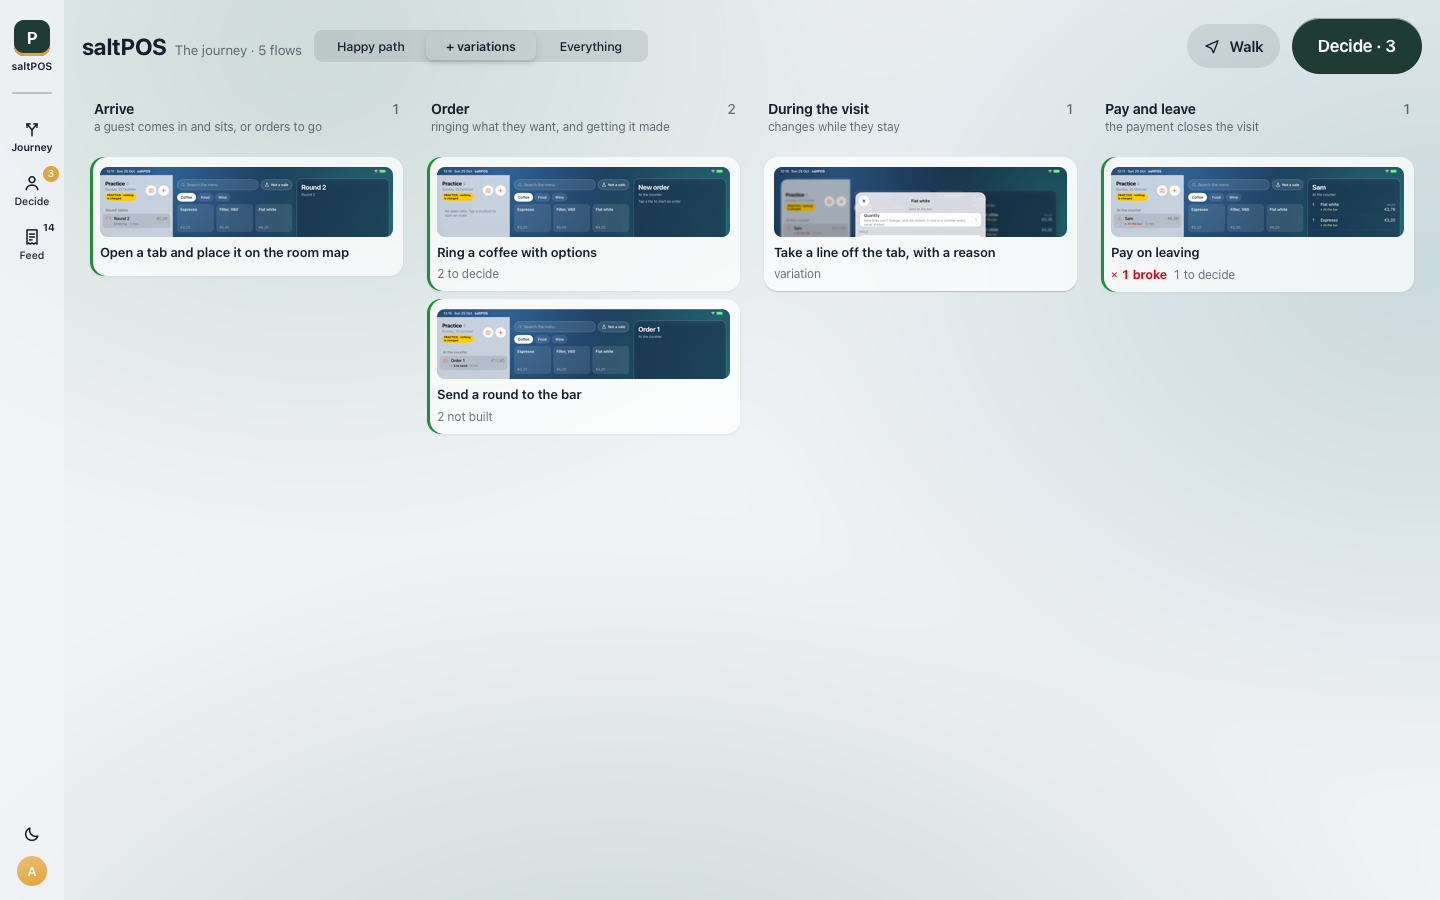
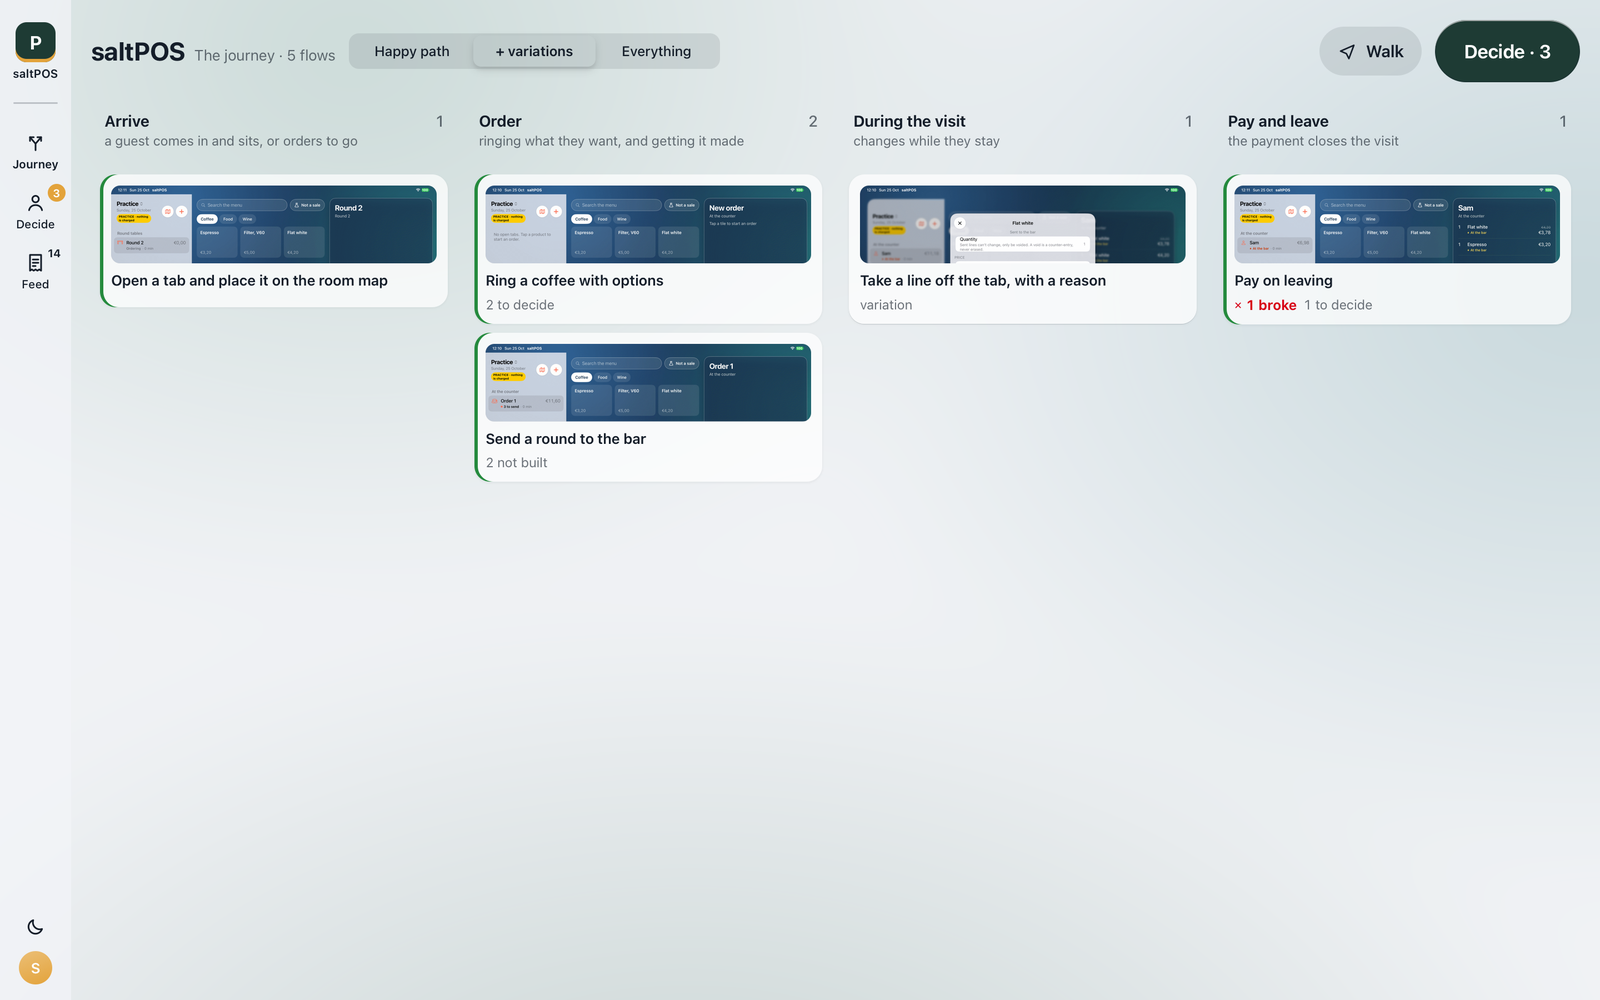
saltFlow 0.2.2

diff --git a/src/saltflow/page.html b/src/saltflow/page.html
@@ -240,6 +240,10 @@ html, body { height: 100%; margin: 0; background: #000; }
 .tc-details[open] summary::before { transform: rotate(90deg); }
 .tc-details .tc-meta { padding: 4px 0 6px; }
 .crop { position: relative; }
+.crop-clients { position: absolute; right: 10px; top: 10px; z-index: 3; pointer-events: auto; display: flex; padding: 2px; gap: 2px; border-radius: 999px; background: color-mix(in srgb, var(--gl-ground) 82%, transparent); }
+.crop-clients button { all: unset; pointer-events: auto; cursor: pointer; font: 600 11.5px var(--font); padding: 3px 10px; border-radius: 999px; color: var(--dim); }
+.crop-clients button.on { background: var(--gl-open-fill, rgba(127,127,127,.18)); color: var(--ink); }
+.crop-clients button:focus-visible { outline: 2px solid var(--accent); outline-offset: 1px; }
 .crop-chip { position: absolute; left: 10px; bottom: 10px; font: 600 11.5px var(--font); padding: 4px 9px; border-radius: 999px; background: color-mix(in srgb, var(--gl-ground) 82%, transparent); color: var(--dim); }
 /* board: content on the tint, not cards in panes */
 .bd-col { background: transparent !important; }
@@ -1004,6 +1008,9 @@ function xrayFor(surface) {
   c.classList.add('xr')
   return c
 }
+// a step captured by both builds shows the one picked last (web or native), remembered on this device
+let capClient = (() => { try { return localStorage.getItem('saltflow.client') } catch (_) { return null } })()
+const clientName = c => c.client === 'native' ? (/ipad/i.test(c.device || '') ? 'iPad' : /iphone/i.test(c.device || '') ? 'iPhone' : 'Native') : 'Web'
 // ── the card: the step ──
 function cropFor(id, s, surf) {
   const box = h('div', { 'data-move': 'open-live', 'data-words': 'the pane on the card', class: `crop ${s.made ? '' : 'unbuilt'} ${INLINE ? '' : 'live'}`, role: INLINE ? null : 'button', tabindex: INLINE ? null : 0, title: INLINE ? null : 'Open this step live', onclick: INLINE ? null : () => openLive(id), onkeydown: e => { if (!INLINE && e.key === 'Enter') openLive(id) } })
@@ -1017,12 +1024,15 @@ function cropFor(id, s, surf) {
     api('/api/terminal?cmd=' + encodeURIComponent(surf.command)).then(r => { pre.textContent = `$ ${r.command}\n${r.output}` }, e => { pre.textContent = e.message })
     return box
   }
-  const cap = (bundle.captures || {})[id]
+  const first = (bundle.captures || {})[id], all = first ? [first, ...(first.alt || [])] : []
+  const cap = all.find(c => c.client === capClient) || first   // web and native side by side: the one picked last
   const file = cap && cap.files ? (cap.files[scheme] || cap.files.light || cap.files.dark) : `${flowId}/${id}${scheme === 'dark' ? '.dark' : ''}.png`
-  const img = h('img', { src: `/api/crop/${file}?product=${encodeURIComponent(productName)}`, alt: `${(surf || {}).name}, ${callsIt()} at ${cap ? cap.commit : '?'}` })
+  const img = h('img', { src: `/api/crop/${file}?product=${encodeURIComponent(productName)}`, alt: `${(surf || {}).name}, ${callsIt()}${cap && cap.commit ? ` at ${cap.commit}` : ''}` })
   img.onerror = () => box.replaceChildren(h('div', { class: 'none' }, 'Built, not captured yet: saltflow capture takes the real pane once a commit touches it.'))
   box.append(img)
-  if (cap) box.append(h('span', { class: 'crop-chip' }, `Work in progress · ${cap.commit}`))
+  if (cap) box.append(h('span', { class: 'crop-chip' }, cap.commit ? `Work in progress · ${cap.commit}` : 'Work in progress'))
+  if (all.length > 1) box.append(h('span', { class: 'crop-clients', role: 'group', 'aria-label': 'Which build' }, ...all.map(c =>
+    h('button', { class: c === cap ? 'on' : '', 'aria-pressed': String(c === cap), onclick: e => { e.stopPropagation(); capClient = c.client; try { localStorage.setItem('saltflow.client', capClient) } catch (_) {} ; box.replaceWith(cropFor(id, s, surf)) } }, clientName(c)))))
   return box
 }
 function drawCard() {

diff --git a/src/saltflow/native.py b/src/saltflow/native.py
@@ -9,7 +9,8 @@ The app marks each screen element accessibilityIdentifier("surface.<id>") and ea
 moves space-separated, as data-move on the web; " = <words>" after the ids gives a control whose label is data its
 fixed words, as data-words does); keypad keys are "key.N", input inside a step and not moves.
 `saltflow capture --xcresult <bundle>` exports the attachments with xcresulttool and writes the same
-captures/index.json the web capture writes, so the page, lint and needs read native steps unchanged: the moves on
+captures/native.json, beside the web capture's index.json (each keeps its own; a step captured by both shows both),
+so the page, lint and needs read native steps as they read web ones: the moves on
 screen become moves_in_code, their labels move_words, and agrees says whether the flow's surface is on screen.
 
 macOS only: xcresulttool comes with Xcode, and sips (which turns a landscape screenshot upright) with macOS. An
@@ -163,7 +164,8 @@ def capture(root, bundle, log=print):
         src, entries = export(bundle, tmp)
         found = attachments(entries, flows)
         log("%d steps attached in %s" % (len(found), os.path.basename(bundle.rstrip("/"))))
-        oip = os.path.join(out, "index.json")
+        # native steps live in their own index beside the web one, so neither capture overwrites the other
+        oip = os.path.join(out, "native.json")
         old = {}
         if os.path.exists(oip):
             with open(oip, encoding="utf-8") as f:
@@ -171,6 +173,20 @@ def capture(root, bundle, log=print):
                     old = json.load(f) or {}
                 except ValueError:   # a broken index is rewritten whole
                     old = {}
+        wip = os.path.join(out, "index.json")       # an older import wrote native rows into the web index: move them
+        if os.path.exists(wip):
+            with open(wip, encoding="utf-8") as f:
+                try:
+                    web = json.load(f) or {}
+                except ValueError:
+                    web = {}
+            moved = {k: v for k, v in (web.get("steps") or {}).items() if v.get("client") == "native"}
+            if moved:
+                old.setdefault("steps", {})
+                for k, v in moved.items():
+                    old["steps"].setdefault(k, v)
+                web["steps"] = {k: v for k, v in web["steps"].items() if k not in moved}
+                model.write_json(wip, web, indent=1, ensure_ascii=False)
         head = W.product_head(root)
         now = time.strftime("%Y-%m-%dT%H:%M:%S")
         steps, disagree, errors = dict(old.get("steps") or {}), [], []

diff --git a/src/saltflow/model.py b/src/saltflow/model.py
@@ -152,6 +152,40 @@ TEXT_FILES = (".md", ".txt", ".json", ".jsonl", ".html", ".py", ".ts", ".tsx", "
 
 
 
+def load_captures(flows_dir, prefer=None):
+    """The captures of a product, web and native side by side. The web capture writes captures/index.json, the
+    native import captures/native.json; neither touches the other. A step captured by both shows the preferred
+    client's entry (the manifest's capture.prefer, else native) with the other under "alt"."""
+    def read(name):
+        p = os.path.join(flows_dir, "captures", name)
+        if not os.path.exists(p):
+            return {}
+        with open(p, encoding="utf-8") as f:
+            try:
+                return json.load(f) or {}
+            except ValueError:       # a broken index counts as no captures; capturing again rewrites it whole
+                return {}
+    web, nat = read("index.json"), read("native.json")
+    order = ("web", "native") if prefer == "web" else ("native", "web")
+    by = {"web": {}, "native": {}}
+    for k, v in (web.get("steps") or {}).items():
+        by[v.get("client") or "web"][k] = dict(v, client=v.get("client") or "web")   # an older import left native rows here
+    for k, v in (nat.get("steps") or {}).items():
+        by["native"][k] = dict(v, client="native")
+    steps = {}
+    for k in set(by["web"]) | set(by["native"]):
+        have = [by[c][k] for c in order if k in by[c]]
+        e = dict(have[0])
+        if len(have) > 1:
+            e["alt"] = [have[1]]
+        steps[k] = e
+    out = dict(web or nat)
+    out["steps"] = steps
+    out["disagree"] = (web.get("disagree") or []) + (nat.get("disagree") or [])
+    out["errors"] = (web.get("errors") or []) + (nat.get("errors") or [])
+    return out
+
+
 def write_json(path, obj, **kw):
     """Write a whole file or none of it: the page reads these while a capture in another session is still writing."""
     tmp = path + ".tmp"

diff --git a/src/saltflow/lint.py b/src/saltflow/lint.py
@@ -23,6 +23,7 @@ import os
 import re
 
 from . import manifest as M
+from . import model
 
 STOP_KINDS = ("back", "cancel")
 MAP = r"const PLACE[^=]*=\s*\{([^}]*)\}"        # the map's body
@@ -59,6 +60,13 @@ def code_places(man):
     return places
 
 
+def _clients(cap):
+    """Every client's capture of a step: the one shown and the other (web and native side by side)."""
+    if not cap:
+        return []
+    return [cap] + list(cap.get("alt") or [])
+
+
 def _norm(s):
     return " ".join(re.sub(r"[^\w€]+", " ", s.lower()).split())
 
@@ -79,14 +87,7 @@ def lint(root):
     lint_cfg = man.data.get("lint")
     needs_error = set((lint_cfg or {}).get("needs_error_move", []))
 
-    cpath = os.path.join(man.flows_dir(), "captures", "index.json")
-    caps = {}
-    if os.path.exists(cpath):
-        with open(cpath, encoding="utf-8") as f:
-            try:
-                caps = (json.load(f) or {}).get("steps") or {}
-            except ValueError:       # a broken index counts as no captures; capturing again rewrites it whole
-                pass
+    caps = model.load_captures(man.flows_dir()).get("steps") or {}
     all_flows = _flows(man)
     by_surface = {}                  # a component's controls serve every flow that uses it
     for fl in all_flows:
@@ -107,8 +108,7 @@ def lint(root):
                             nulls.add(k)
     for flow in all_flows:
         fid, steps, moves = flow["id"], flow["steps"], flow["moves"]
-        for sid in steps:
-            cap = caps.get("%s/%s" % (fid, sid)) or {}
+        for sid, cap in ((sid, c) for sid in steps for c in _clients(caps.get("%s/%s" % (fid, sid)))):
             code = cap.get("moves_in_code")
             if code is None:
                 continue

diff --git a/tests/test_native.py b/tests/test_native.py
@@ -97,3 +97,30 @@ class Import(unittest.TestCase):
 
 if __name__ == "__main__":
     unittest.main()
+
+
+class SideBySide(unittest.TestCase):
+    """Web and native captures of one step live in their own index and both reach the page and the lint."""
+    def setUp(self):
+        self.tmp = tempfile.mkdtemp()
+        self.fd = os.path.join(self.tmp, "flows")
+        os.makedirs(os.path.join(self.fd, "captures"))
+
+    def tearDown(self):
+        shutil.rmtree(self.tmp)
+
+    def write(self, name, steps):
+        with open(os.path.join(self.fd, "captures", name), "w") as f:
+            json.dump({"schema": "saltflow/v1/captures", "steps": steps}, f)
+
+    def test_both_kept_native_shown_first(self):
+        from saltflow import model
+        self.write("index.json", {"f/a": {"files": {"light": "f/a.png"}}, "f/b": {"files": {"light": "f/b.png"}},
+                                  "f/c": {"client": "native", "files": {"light": "f/c.native.png"}}})
+        self.write("native.json", {"f/a": {"client": "native", "files": {"light": "f/a.native.png"}}})
+        steps = model.load_captures(self.fd)["steps"]
+        self.assertEqual(steps["f/a"]["client"], "native")
+        self.assertEqual([x["client"] for x in steps["f/a"]["alt"]], ["web"])
+        self.assertEqual(steps["f/b"]["client"], "web")
+        self.assertEqual(steps["f/c"]["client"], "native")            # an older import's row in the web index
+        self.assertEqual(model.load_captures(self.fd, prefer="web")["steps"]["f/a"]["client"], "web")

diff --git a/src/saltflow/coverage.py b/src/saltflow/coverage.py
@@ -129,14 +129,7 @@ def bar(root):
     m["runs"] = len(rs)
     m["runs_disagree"] = sum(1 for r in rs if "expect" in r and not r.get("agrees", True))
     m["runs_break"] = sum(1 for r in rs if model.run_verdict(r) == "break")
-    ixp = os.path.join(d, "captures", "index.json")
-    ix = {}
-    if os.path.exists(ixp):
-        with open(ixp, encoding="utf-8") as f:
-            try:
-                ix = json.load(f)
-            except ValueError:       # a broken index counts as no captures; capturing again rewrites it whole
-                pass
+    ix = model.load_captures(d)
     built_keys = {"%s/%s" % (fl["id"], sid) for fl, sid in built}
     m["captures"] = sum(1 for k in (ix.get("steps") or {}) if k in built_keys)
     m["captures_at_head"] = sum(1 for k, v in (ix.get("steps") or {}).items() if k in built_keys and v.get("commit") == W.product_head(root))

diff --git a/src/saltflow/server.py b/src/saltflow/server.py
@@ -156,7 +156,7 @@ class Product:
         return _jsonl_all(os.path.join(self.man.flows_dir(), "iterations.jsonl"))
 
     def captures(self):
-        return _json(os.path.join(self.man.flows_dir(), "captures", "index.json")) or {}
+        return model.load_captures(self.man.flows_dir(), (self.man.data.get("capture") or {}).get("prefer"))
 
     def sketches(self):
         """A product with no screen draws its surfaces: flows/sketches/<surface>.svg, a state of one step at

diff --git a/src/saltflow/__init__.py b/src/saltflow/__init__.py
@@ -1,2 +1,2 @@
 """saltFlow: a review tool for products, with the user flow as the timeline."""
-__version__ = "0.2.1"
+__version__ = "0.2.2"

diff --git a/README.md b/README.md
@@ -1,18 +1,112 @@
-# saltFlow
+<h1 align="center">saltFlow</h1>
 
-saltFlow shows you a software product the way a person moves through it: every flow as a path, the real screen at
-every step, and the reason behind every choice. It is a review tool for the founder or product manager, and the
-product's own AI coding agent keeps it up to date.
+<p align="center"><b>Review your product the way people move through it.</b><br>
+Every flow as a path, the real screen at every step, and the reason behind every choice,<br>
+kept up to date by your AI coding agent.</p>
 
-saltFlow stores nothing of your product. It reads plain JSON files that live in your repo under `flows/`, checks
-them, walks them, and serves a review page on your own machine. What it writes back is in `flows/`: notes, answers
-to decisions, what the last walk reached, and screenshots. The one file outside your repo is the list of products
-the page's switcher offers, `~/.saltflow/products.json`, with each product's name and path; `saltflow init
+<p align="center">
+  <a href="#quickstart">Quickstart</a> ·
+  <a href="#features">Features</a> ·
+  <a href="#use-it-on-your-product">Use it on your product</a> ·
+  <a href="#licence">Licence</a>
+</p>
+
+<p align="center"><img src="docs/img/journey.png" alt="The journey board: every flow of a coffee-bar till, grouped by where the guest is, each with its real screen and what is broken, waiting on a decision or not built yet" width="100%"></p>
+
+Screens get reviewed one at a time; products fail between them. saltFlow lays the whole product out as the flows
+people actually walk (ordering, paying, a card declined, the wifi dropping) and puts the real screen on every step.
+You see what is built, what breaks, and what is still waiting on you, and you answer with a tap. Your AI coding
+agent writes the flows beside the code it builds, so the review never goes stale.
+
+It runs on your machine, reads plain JSON in your repo, and needs nothing but Python.
+
+## Features
+
+### The whole journey on one board
+
+Every flow of the product, in the order a person meets them, each with its real screen. A tile says at a glance
+what broke, what is not built yet and what is waiting on a decision. Switch between the happy path, the variations
+and everything.
+
+### Every flow as a map
+
+<p align="center"><img src="docs/img/feature-map.png" alt="The flow map of paying on leaving: steps as boxes, moves as arrows, a stuck step marked in red" width="100%"></p>
+
+Steps are the things that arrive on screen; moves are the taps, keys and things that just happen (a card declined)
+between them. Branches, loops, ways back and failures are all drawn, laid out by where each step lands: home, one
+pane in, the same pane deeper.
+
+<table>
+<tr>
+<td width="42%"><img src="docs/img/feature-step.png" alt="The step panel: the real iPad screen of a declined card, the run that reaches it, and the pattern behind it"></td>
+<td width="58%"><b>Tap a step and the real screen is there</b>, captured from your web build or from your iOS UI tests,
+with the runs that pass through it, the pattern behind its design and why it was chosen, and the notes left on it.
+Leave a note in one tap; it reaches your agent as work.</td>
+</tr>
+</table>
+
+### Walks that find the breaks for you
+
+`saltflow walk` tries every flow under every combination of its conditions: online or not, card accepted or
+declined, a manager on shift or not. A run that does not reach what the design promises is marked on the map and
+becomes a note, before anyone taps through it by hand.
+
+### Decisions, right beside the screen they change
+
+<p align="center"><img src="docs/img/decide.png" alt="Decision mode: the open questions on the left, the screen the question is about in the middle, the options on the right" width="100%"></p>
+
+<table>
+<tr>
+<td width="40%"><img src="docs/img/feature-decision.png" alt="A decision card: the question, why it matters, two options with what follows from each, one recommended"></td>
+<td width="60%"><b>Your agent asks; you decide.</b> Each question comes with why it matters, its options, what follows
+from each, and one recommended. Answer with a tap, a number key or in your own words; the answer lands in the repo
+and the agent picks it up before its next change. Questions that depend on each other are linked, so one answer
+never quietly undoes another.</td>
+</tr>
+</table>
+
+### A feed of what is waiting on you
+
+<table>
+<tr>
+<td width="40%"><img src="docs/img/feature-feed.png" alt="The feed: what is waiting on the reviewer, what broke, what is done"></td>
+<td width="60%">What is waiting on you, what broke since you last looked, and what got done, each closed with the commit
+that answered it. Leave a note on any step, move or region; it reaches the agent as work, and comes back closed.</td>
+</tr>
+</table>
+
+### Real screens, web and native
+
+`saltflow capture` plays each flow in your web build through WebKit and saves the screen at every step, light and
+dark. For iPhone and iPad apps, saltFlow reads the screenshots your own XCUITests attach
+(`saltflow capture --xcresult`). In both cases it reads every control back and checks it against the flow, so a
+button the flow does not know about, or a flow step with no button, shows up as a finding. A product built for both
+keeps both: a step captured on the web and on the iPad shows a switch between the two.
+
+### On your phone, light or dark
+
+<table>
+<tr>
+<td width="62%"><img src="docs/img/flow-dark.png" alt="A flow map in dark mode"></td>
+<td width="38%"><img src="docs/img/phones.png" alt="The journey and the decisions on an iPhone, light and dark"></td>
+</tr>
+</table>
+
+The page works at phone width, one pane at a time, with a floating tab bar. `saltflow --lan` serves it on your
+wifi, so you can review from the sofa.
+
+### Made for AI coding agents
+
+`saltflow init` installs a guide into your repo (`flows/README.md`) that tells your agent what to write, where,
+and the rules to keep. `saltflow validate` and `saltflow lint` give it fast, exact feedback; a git hook re-walks and
+re-captures after each commit. Works with Claude Code, Codex, Cursor and the like.
+
+### What it is not
+
+saltFlow stores nothing of your product and edits nothing but its own `flows/` folder. No account, no server, no
+cloud. What it writes back (notes, answers, the last walk, screenshots) is in `flows/`, in your repo. The one file
+outside it is the list of products the page's switcher offers, `~/.saltflow/products.json`; `saltflow init
 --no-register` skips it, and `SALTFLOW_HOME` moves it.
-
-![The journey board of the bundled example: every flow of a coffee-bar till, each with its real screen](docs/img/journey.png)
-
-![A decision beside the screen it changes](docs/img/decision.png)
 
 saltFlow is source-available, not open source: free for non-commercial use, commercial use by agreement. See
 [Licence](#licence).

diff --git a/CHANGELOG.md b/CHANGELOG.md
@@ -7,6 +7,22 @@ version and comes with a note on how to update your flows.
 
 ## [Unreleased]
 
+## [0.2.2]
+
+### Added
+
+- The README is a product page: what saltFlow does, feature by feature, with screenshots of the example.
+- A step captured both on the web and natively shows a switch between the two pictures (the choice is remembered on
+  that device). `capture.prefer` in `flows/saltflow.json` (`"native"` or `"web"`) says which shows first; native by
+  default.
+
+### Fixed
+
+- Web and native captures no longer overwrite each other: the native import writes `flows/captures/native.json`
+  beside the web capture's `index.json`, and moves any native rows an older version left in `index.json`. The lint
+  checks both.
+- A capture with no commit (the bundled example) no longer reads "undefined" on its label.
+
 ## [0.2.1]
 
 ### Fixed
@@ -49,6 +65,7 @@ version and comes with a note on how to update your flows.
 - `saltflow publish` writes the page as one static HTML file.
 - `saltflow doctor` checks the machine and says how to fix what is missing; `saltflow demo` opens a bundled example.
 
-[Unreleased]: https://github.com/atrouwee/saltflow/compare/v0.2.1...HEAD
+[Unreleased]: https://github.com/atrouwee/saltflow/compare/v0.2.2...HEAD
+[0.2.2]: https://github.com/atrouwee/saltflow/compare/v0.2.1...v0.2.2
 [0.2.1]: https://github.com/atrouwee/saltflow/compare/v0.2.0...v0.2.1
 [0.2.0]: https://github.com/atrouwee/saltflow/releases/tag/v0.2.0

diff --git a/CLA.md b/CLA.md
@@ -1,9 +1,7 @@
 # saltFlow Individual Contributor Licence Agreement
 
-> **Draft: have a lawyer review this before it is used.** It is a plain-language starting point, not legal advice.
-
-This agreement is between you (the person submitting a contribution) and the saltFlow project, as represented by its
-maintainer ("the project"). It applies to every contribution you submit to saltFlow, now or later.
+This agreement is between you (the person submitting a contribution) and Moonlabor, which maintains saltFlow
+("the project"). It applies to every contribution you submit to saltFlow, now or later.
 
 ## 1. Definitions
 
